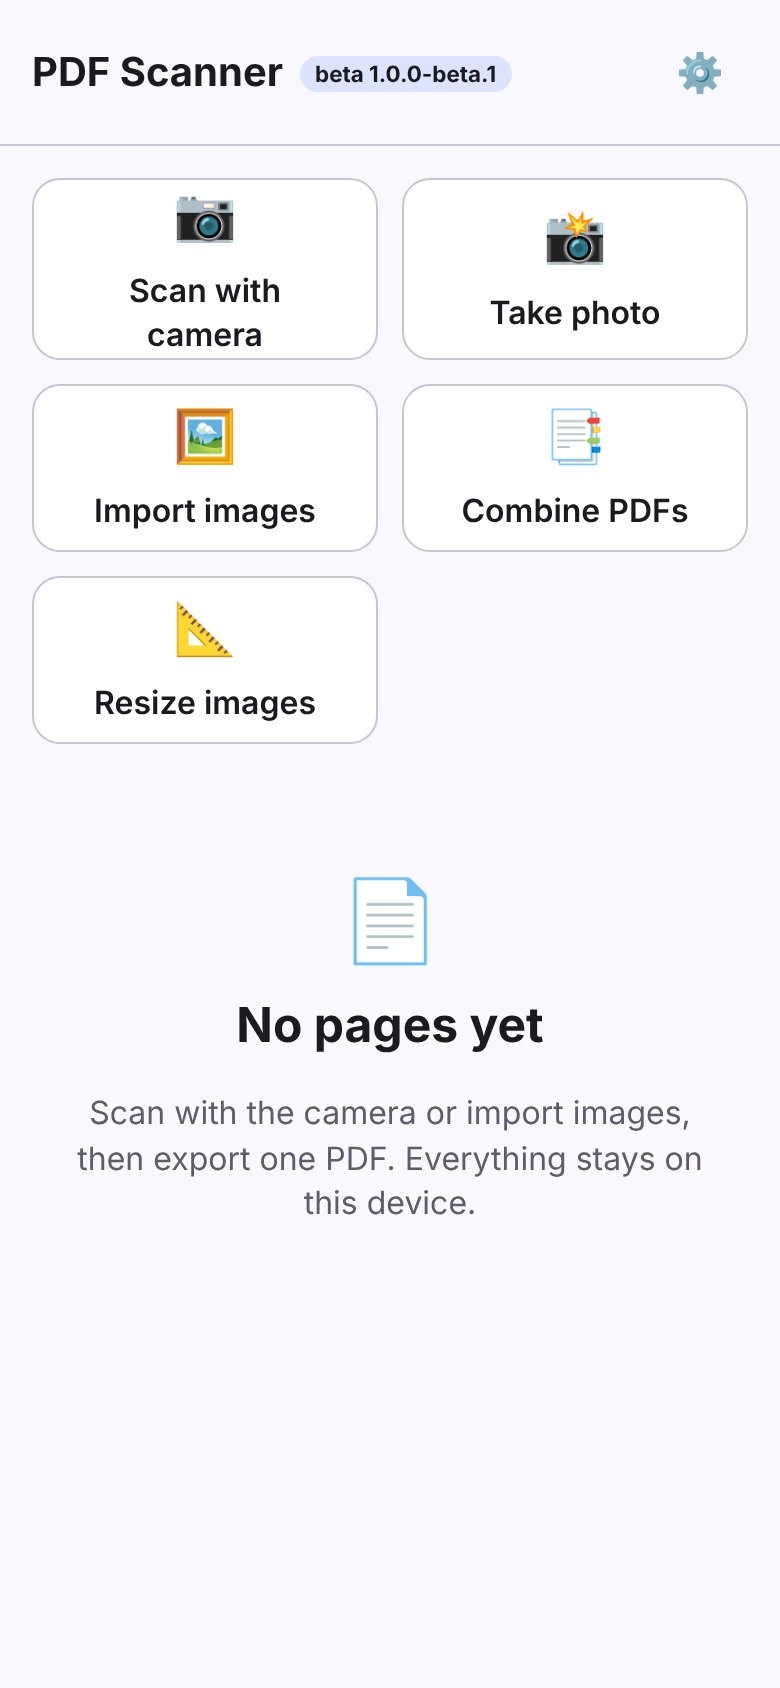
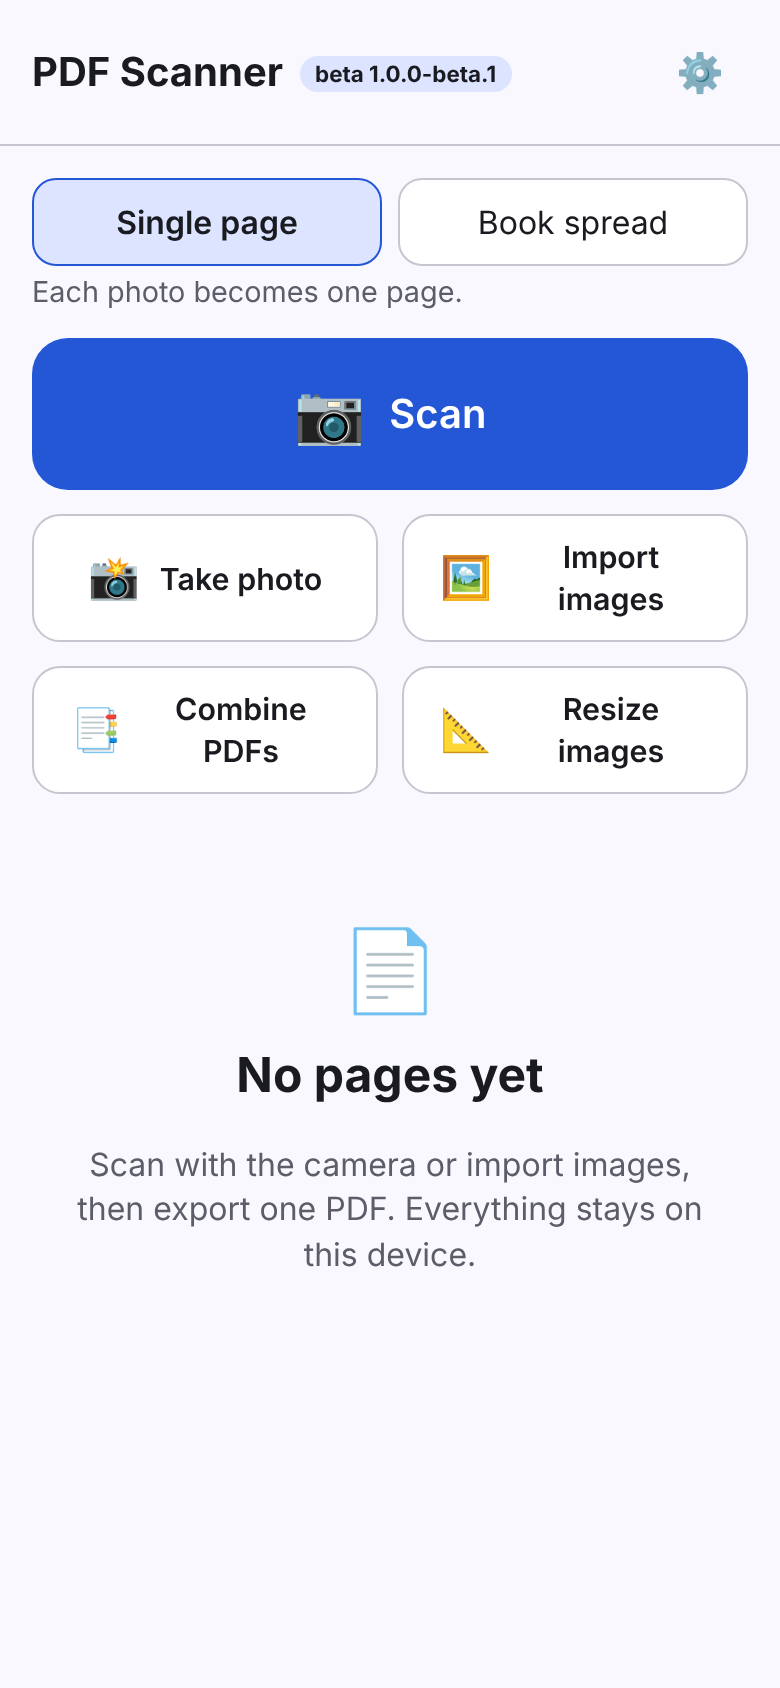
Docs, screenshots, memory bench, spread camera guide, softer writing check
Claude-Session: https://claude.ai/code/session_01K1tsQ7sZNKCwGP7gMpF3w1

diff --git a/web/tests/spread.test.ts b/web/tests/spread.test.ts
@@ -9,13 +9,13 @@ const outerPx = [{ x: 40, y: 30 }, { x: 360, y: 30 }, { x: 360, y: 270 }, { x: 4
 const outerQ = outerPx.map((p) => ({ x: p.x / W, y: p.y / H })) as Quad;
 
 /** Two bright pages on a darker desk with a soft dark fold, writing rows, optional fold tilt. */
-function spreadImg(o: { gutterX?: number; tilt?: number; fold?: number; writingToFold?: boolean; seed?: number } = {}): Img {
+function spreadImg(o: { gutterX?: number; tilt?: number; fold?: number; foldWidth?: number; writingToFold?: boolean; seed?: number } = {}): Img {
   const img = createImg(W, H), rnd = rng(o.seed ?? 1);
   const gx0 = o.gutterX ?? 200, tilt = o.tilt ?? 0, fold = o.fold ?? 0.35;
   for (let y = 0; y < H; y++) for (let x = 0; x < W; x++) {
     const onPage = x >= 40 && x <= 360 && y >= 30 && y <= 270;
     let v = onPage ? 228 : 90;
-    if (onPage && fold > 0) { const d = x - (gx0 + tilt * (y - 150)); v -= 228 * fold * Math.exp(-(d * d) / 200); }
+    if (onPage && fold > 0) { const d = x - (gx0 + tilt * (y - 150)); v -= 228 * fold * Math.exp(-(d * d) / (o.foldWidth ?? 200)); }
     // handwriting: short dark dashes in rows, away from the fold unless asked
     if (onPage && y > 50 && y % 16 < 3) {
       const d = Math.abs(x - (gx0 + tilt * (y - 150)));
@@ -97,6 +97,11 @@ describe('boundaryInk', () => {
     const cut: Quad = [{ x: 0.2, y: outerQ[0].y }, { x: 0.5, y: outerQ[0].y }, { x: 0.5, y: outerQ[3].y }, { x: 0.2, y: outerQ[3].y }];
     const ink = boundaryInk(spreadImg({ fold: 0 }), cut);
     expect(ink[3]).toBeGreaterThan(0.1);
+  });
+  it('ignores a narrow but soft fold shadow too (not writing)', () => {
+    const half: Quad = [{ x: 0.1, y: outerQ[0].y }, { x: 0.5, y: outerQ[0].y }, { x: 0.5, y: outerQ[3].y }, { x: 0.1, y: outerQ[3].y }];
+    const ink = boundaryInk(spreadImg({ fold: 0.45, foldWidth: 45 }), half);
+    expect(ink[1]).toBeLessThan(0.05);
   });
   it('ignores a wide dark fold shadow (not writing)', () => {
     const half: Quad = [{ x: 0.1, y: outerQ[0].y }, { x: 0.5, y: outerQ[0].y }, { x: 0.5, y: outerQ[3].y }, { x: 0.1, y: outerQ[3].y }];

diff --git a/web/src/core/spread.ts b/web/src/core/spread.ts
@@ -180,6 +180,11 @@ export function boundaryInk(img: Img, quad: Quad): [number, number, number, numb
       let d0 = -1;
       for (let d = 0; d <= 3; d++) if (lum(x + nx * d, y + ny * d) < dark) { d0 = d; break; }
       if (d0 < 0) continue;
+      // Strokes have sharp edges: a pixel 3 px either way is much brighter. A soft fold shadow changes slowly.
+      const here = lum(x + nx * d0, y + ny * d0);
+      let brightest = 0;
+      for (const k of [2, 3, 4]) brightest = Math.max(brightest, lum(x + nx * (d0 + k), y + ny * (d0 + k)), lum(x + nx * (d0 - k), y + ny * (d0 - k)));
+      if (brightest - here < paper * 0.25) continue;
       // Width of the dark run through this point, inward and outward: strokes are thin, a fold shadow or the desk is wide.
       let run = 0;
       while (run < 14 && lum(x + nx * (d0 + run), y + ny * (d0 + run)) < dark) run++;

diff --git a/web/src/style.css b/web/src/style.css
@@ -146,3 +146,4 @@ main > .hint { margin: 4px 0 12px; }
 .doc-head { display: flex; align-items: center; gap: 8px; margin: 0 0 10px; flex-wrap: wrap; }
 .doc-head .spacer { flex: 1; }
 .dlg.menu .btn { width: 100%; justify-content: flex-start; }
+.camera .guide.spread { top: 50%; bottom: auto; transform: translateY(-62%); height: auto; aspect-ratio: 1.45 / 1; }

diff --git a/README.md b/README.md
@@ -19,9 +19,18 @@ analytics, no uploads: it has no internet permission at all.
 | Combine PDFs | By importing their pages as images | Keeps text and vectors (no re-rendering) |
 | File size | Quality presets | Quality presets with the **estimated size in MB** shown, plus "keep under N MB" |
 | Camera | In-app CameraX | In-page live camera, or the phone's own camera app |
+| Open books | Not supported | **Book spread** mode: one photo becomes a left and a right page (see below) |
 
 The web app is the newer of the two and shares the same page-detection approach. It has fewer features so far
 (no library of saved documents: one working document at a time). See [web/README.md](web/README.md).
+
+## Web app: book spreads
+Switch **Single page / Book spread** above the Scan button. A spread photo opens a review screen with the four outer
+corners and two fold handles that slide along the top and bottom edges (so the split can tilt); "Adjust each page" gives
+every page its own four corners. The photo's pages are added **left, then right**, so 3 spreads make 6 pages. A fold the
+app cannot find is shown as an uncertain middle and the spread cannot be applied until you move or confirm it; writing that
+touches a crop edge is flagged. One shared source photo per spread, edits are non-destructive, and a spread can be edited,
+retaken (other pages and their order are kept) or have one side deleted. Not included: OCR and flattening curved pages.
 
 ## Download
 
@@ -33,15 +42,15 @@ asked. It is a debug-signed build for testing, not a Play Store release.
 
 Web app (captured from the real build in headless Chromium; Android screenshots are not added yet):
 
-| Pages | Crop (auto-detected) | Enhance | Export |
+| Pages (single + spreads) | Review a book spread | Fold not found: confirm first | Selection |
 | --- | --- | --- | --- |
-| ![Pages](docs/screenshots/web-pages-light.png) | ![Crop](docs/screenshots/web-crop-light.png) | ![Enhance](docs/screenshots/web-enhance-light.png) | ![Export](docs/screenshots/web-export-light.png) |
+| ![Pages](docs/screenshots/web-pages-light.png) | ![Spread](docs/screenshots/web-spread-review-light.png) | ![Uncertain](docs/screenshots/web-spread-uncertain-light.png) | ![Selection](docs/screenshots/web-selection-light.png) |
 
-| Preview | Resize images |
-|---|---|
-| ![Preview](docs/screenshots/web-preview-light.png) | ![Resize](docs/screenshots/web-resize-light.png) |
+| Crop | Enhance | Export | Camera (spread guide) |
+| --- | --- | --- | --- |
+| ![Crop](docs/screenshots/web-crop-light.png) | ![Enhance](docs/screenshots/web-enhance-light.png) | ![Export](docs/screenshots/web-export-light.png) | ![Camera](docs/screenshots/web-camera-spread-light.png) |
 
-Dark mode: [pages](docs/screenshots/web-pages-dark.png).
+More: [each-page adjust](docs/screenshots/web-spread-each-page-light.png), [page menu](docs/screenshots/web-page-menu-light.png), [preview](docs/screenshots/web-preview-light.png), [resize](docs/screenshots/web-resize-light.png), [dark pages](docs/screenshots/web-pages-dark.png), [dark home](docs/screenshots/web-home-empty-dark.png). The photos in the spread shots are synthetic.
 
 ## What it does today
 

diff --git a/web/README.md b/web/README.md
@@ -19,8 +19,8 @@ E2E_CPU_THROTTLE=6 npm run e2e   # same tests on a 6x slower CPU, to catch timin
 src/core/     Pure TypeScript, no DOM: geometry, filters, perspective warp, page detection (Canny + Hough +
               scored quadrilaterals), PDF building (pdf-lib). Unit-tested in Node.
 src/imaging.ts  Browser glue: decode (EXIF-aware), normalise, render a page, run detection.
-src/store.ts    State, settings (localStorage) and persistence (IndexedDB).
-src/ui/         Screens: main view, editor, viewer (preview), camera, export, combine, resize, settings.
+src/store.ts    State, settings (localStorage), persistence (IndexedDB), spreads, drafts, storage-full state.
+src/ui/         Screens: main view, page editor, spread editor, viewer (preview), camera, export, combine, resize, settings, update banner.
 public/         Manifest, icons, service worker (offline).
 e2e/            Playwright tests (real Chromium, fake camera) and the screenshot script.
 ```
@@ -32,4 +32,8 @@ e2e/            Playwright tests (real Chromium, fake camera) and the screenshot
   use unless the app is installed to the home screen), so export what matters.
 - Export shows an estimated file size for every quality (computed in the browser, within a few percent) and can pick the
   best quality that fits a "keep under N MB" limit.
-- Offline: a service worker caches the app after the first visit.
+- Offline: a service worker caches the app after the first visit. A new version waits behind an "Update ready" banner; the
+  page reloads only when you tap Update, after open editors have saved their drafts.
+- Book spreads: `src/core/spread.ts` (geometry, fold finder, writing-at-the-edge check), `src/ui/spreadEditor.ts`. Each
+  spread keeps one shared source image (the same normalised, 3000 px JPEG policy as single pages) with non-destructive edits.
+- Benchmarks: `npm run bench`, `node bench/score.mjs`, `node bench/memory.mjs`; ML experiments live in `bench/ml/` and are not bundled.

diff --git a/CHANGELOG.md b/CHANGELOG.md
@@ -4,6 +4,16 @@
 First beta.
 - **New web app** (`web/`): offline PWA with camera/import, auto-detect crop, filters, reorder, bulk actions, PDF export
   (size and quality), combine PDFs, settings; 34 unit tests and 10 real-browser tests including offline.
+- Web, **book spreads**: Single page / Book spread mode; review screen with 4 outer corners + a tiltable fold (2 handles)
+  or independent per-page corners; 3 spreads give 6 ordered pages; mixed single pages and spreads; retake (others kept),
+  side deletion, reorder; one shared source per spread with non-destructive edits; the fold is never guessed silently
+  (uncertain fold must be confirmed) and writing touching a crop edge is flagged. Known limit: the fold of the
+  open-notebook test photo is found only by hand (flagged as uncertain), curved pages are not flattened, no OCR.
+- Web UI: new mobile layout (mode switch, big Scan button, tools row, per-page menu, coherent selection mode), camera shows a
+  spread guide, "Update ready" banner (the new version never takes over an open editor), draft recovery after reload,
+  clear message when browser storage is full, safe handling of service-worker updates.
+- Benchmarks: `bench/score.mjs` with hand labels, `docs/BASELINE.md` (old 0/4, current 4/4 on four photos), `bench/memory.mjs`,
+  `docs/ML_EVALUATION.md` (DocAligner measured, not adopted, not bundled).
 - Web detector: new **paper-colour** candidate generator (whiteness threshold, morphological clean-up, convex-hull quad fit)
   plus an "is the inside mostly paper?" check. On four real cluttered phone photos (bed sheet and laptop, phone on a
   patterned cloth, a phone screen) the old detector returned huge boxes around the clutter; the new one frames the

diff --git a/docs/TESTING.md b/docs/TESTING.md
@@ -32,6 +32,15 @@ cd web && npm ci && npm run typecheck && npm test && npm run build && npm run e2
   nudging, reorder, export a valid multipage PDF (opened and checked), bulk selection, persistence across reload,
   settings, live camera capture, camera-denied guidance, combine PDFs, no requests to other origins, and a
   service-worker **offline** reload that still scans and exports.
-- Not covered: real phone cameras and Safari/iOS behaviour.
+- **Spread and robustness tests** (`web/e2e/spreads.spec.ts`, `web/tests/spread.test.ts`, `web/tests/store.test.ts`): gutter finder
+  (clear, tilted, off-centre, absent, faint), writing-at-the-edge check, 3 spreads give 6 ordered pages and export, an
+  uncertain fold blocks Apply until confirmed, tilt and per-page corners, mixed single/spread documents, retake (others
+  kept, cancel changes nothing, side deleted then retake, reorder then retake), reload recovery of documents and unsaved
+  edits (spread and page editors), storage-full behaviour (warning, nothing lost, export works, recovers), service-worker
+  update banner that never reloads over an open edit, and mobile layout at 360x640 and 390x700.
+- **Detection acceptance:** `node bench/score.mjs <photos> web/bench/labels/baseline-4.json` (raw detection vs hand labels;
+  see [BASELINE.md](BASELINE.md)). Held-out photos are still needed before any accuracy claim.
+- **Memory:** `node bench/memory.mjs 12 3000` (desktop Linux; phones not measured).
+- Not covered: real phone cameras and Safari/iOS behaviour (no iPhone or Android device was available).
 
 - **Detection benchmark on real photos:** `npm run bench -- <folder>` (see [PAGE_DETECTION.md](PAGE_DETECTION.md)).

diff --git a/docs/PAGE_DETECTION.md b/docs/PAGE_DETECTION.md
@@ -36,6 +36,15 @@ adds the least area). Every candidate, whatever produced it, must also pass a ch
 white as its own 90th percentile, and its score is multiplied by that fraction cubed. Dark paper on a bright table is
 still handled by the older brightness segmentation.
 
+## Book spreads (web)
+`detectSpread` takes the outer outline from the page detector (or the inset frame when none is found), then looks for the fold:
+for 30 rows across the spread it records up to three dark local minima, votes for the straight line most rows agree with
+(slope limited), and keeps it only if a dip along that line is present in at least 75% of rows. Two orientations are tried
+(a sideways photo has a horizontal fold). When the fold is not clearly found the result is the middle, flagged **uncertain**:
+the review screen then refuses to apply until the user moves or confirms it. A separate check flags crop edges that cut
+through thin dark strokes (writing); wide or soft dark areas such as the fold shadow are ignored. Curved pages are not
+flattened: a quad cannot undo a curve.
+
 ## Crop margin
 Detected corners are moved outwards by a small margin (1.2% of the page size, `CROP_MARGIN`) because clipping a page
 edge or printed footer is worse than including a sliver of desk.

diff --git a/docs/ROADMAP.md b/docs/ROADMAP.md
@@ -18,6 +18,10 @@ Prefer open-source building blocks over a dependency on any single vendor's SDK.
 Offline PWA in `web/`: camera and import, crop with auto-detect, filters, reorder, bulk actions, PDF export with
 size and quality, combine PDFs (text preserved), settings, installable, browser-tested including offline.
 
+## Done: web book spreads (beta, awaiting review)
+Single page / Book spread modes, spread review with tiltable fold and per-page correction, ordered multi-spread documents,
+retake, drafts, update banner. Not done: curved-page flattening, OCR, held-out accuracy evidence.
+
 ## Next
 0. **Web:** library of several documents, PDF page import/split with pdf.js, live page outline and auto-capture.
 1. **OCR and searchable PDFs** with Tesseract (Tesseract.js on the web) (Apache-2.0), bundled language data, search text in the library,
